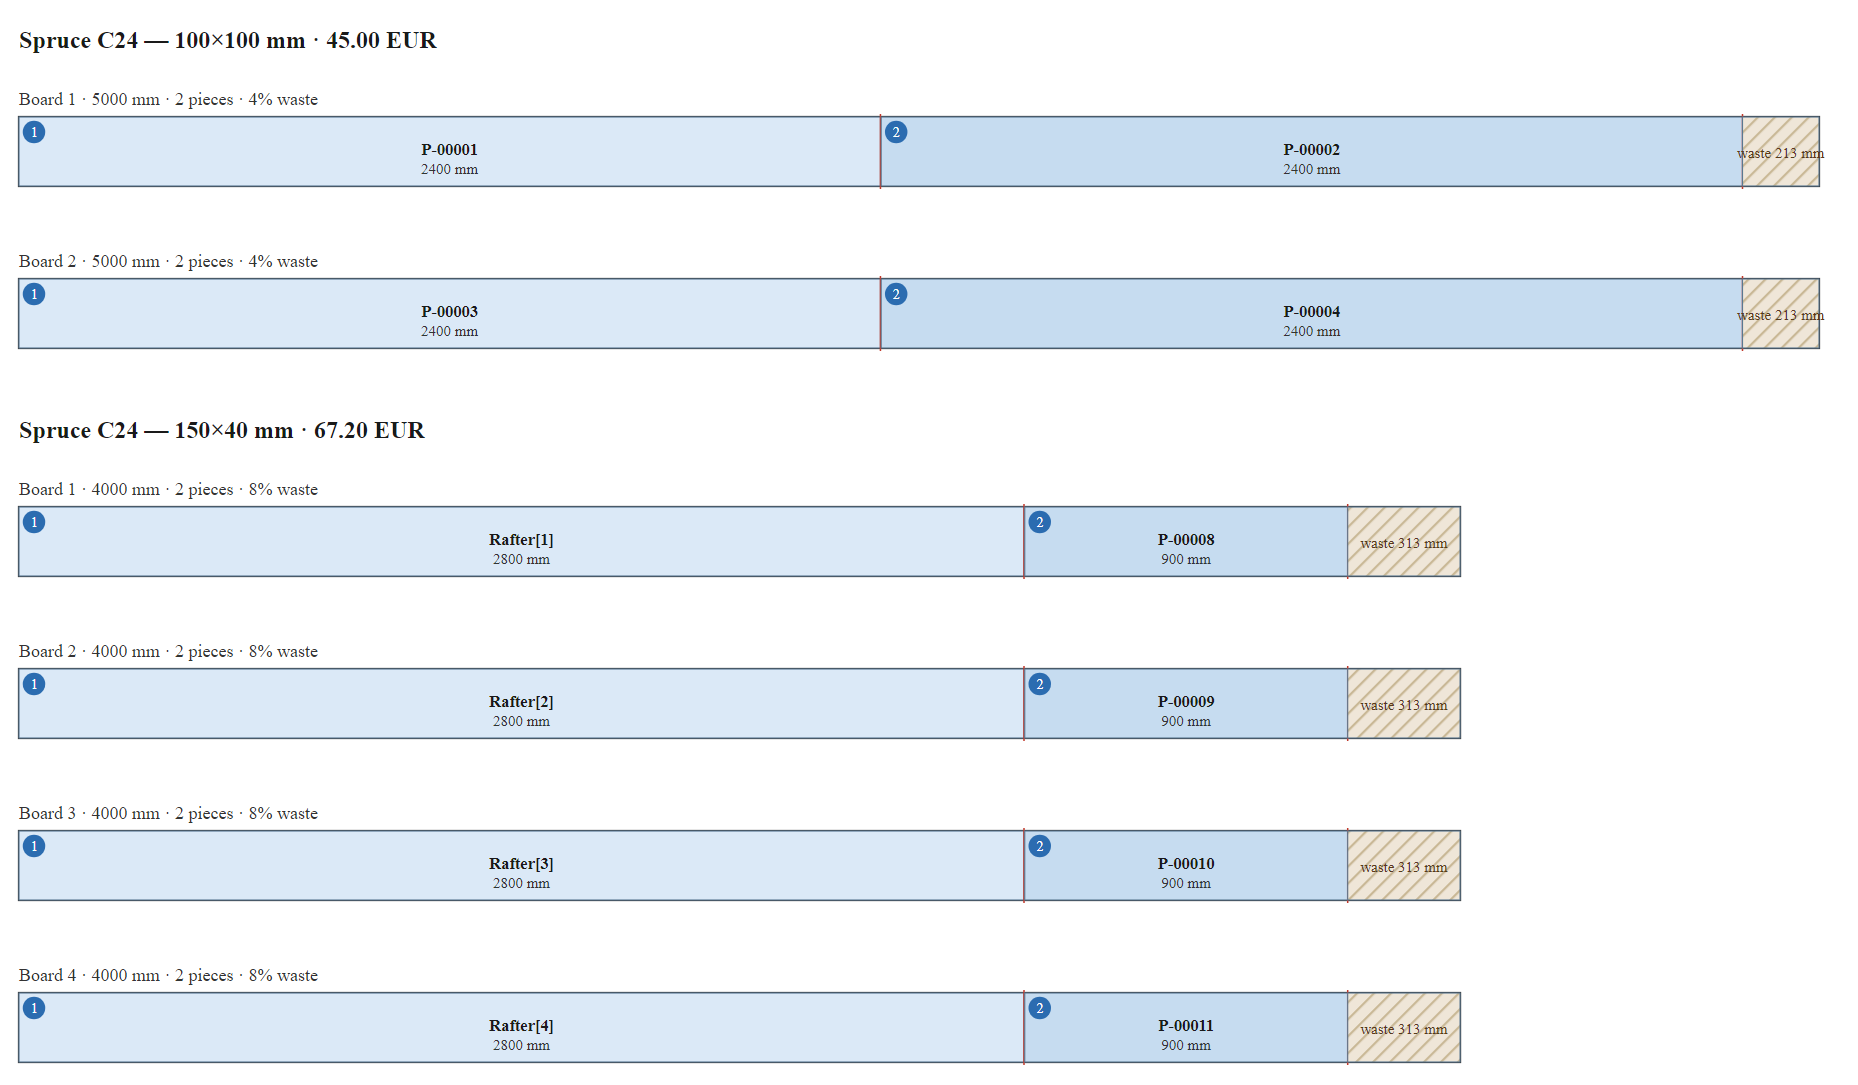
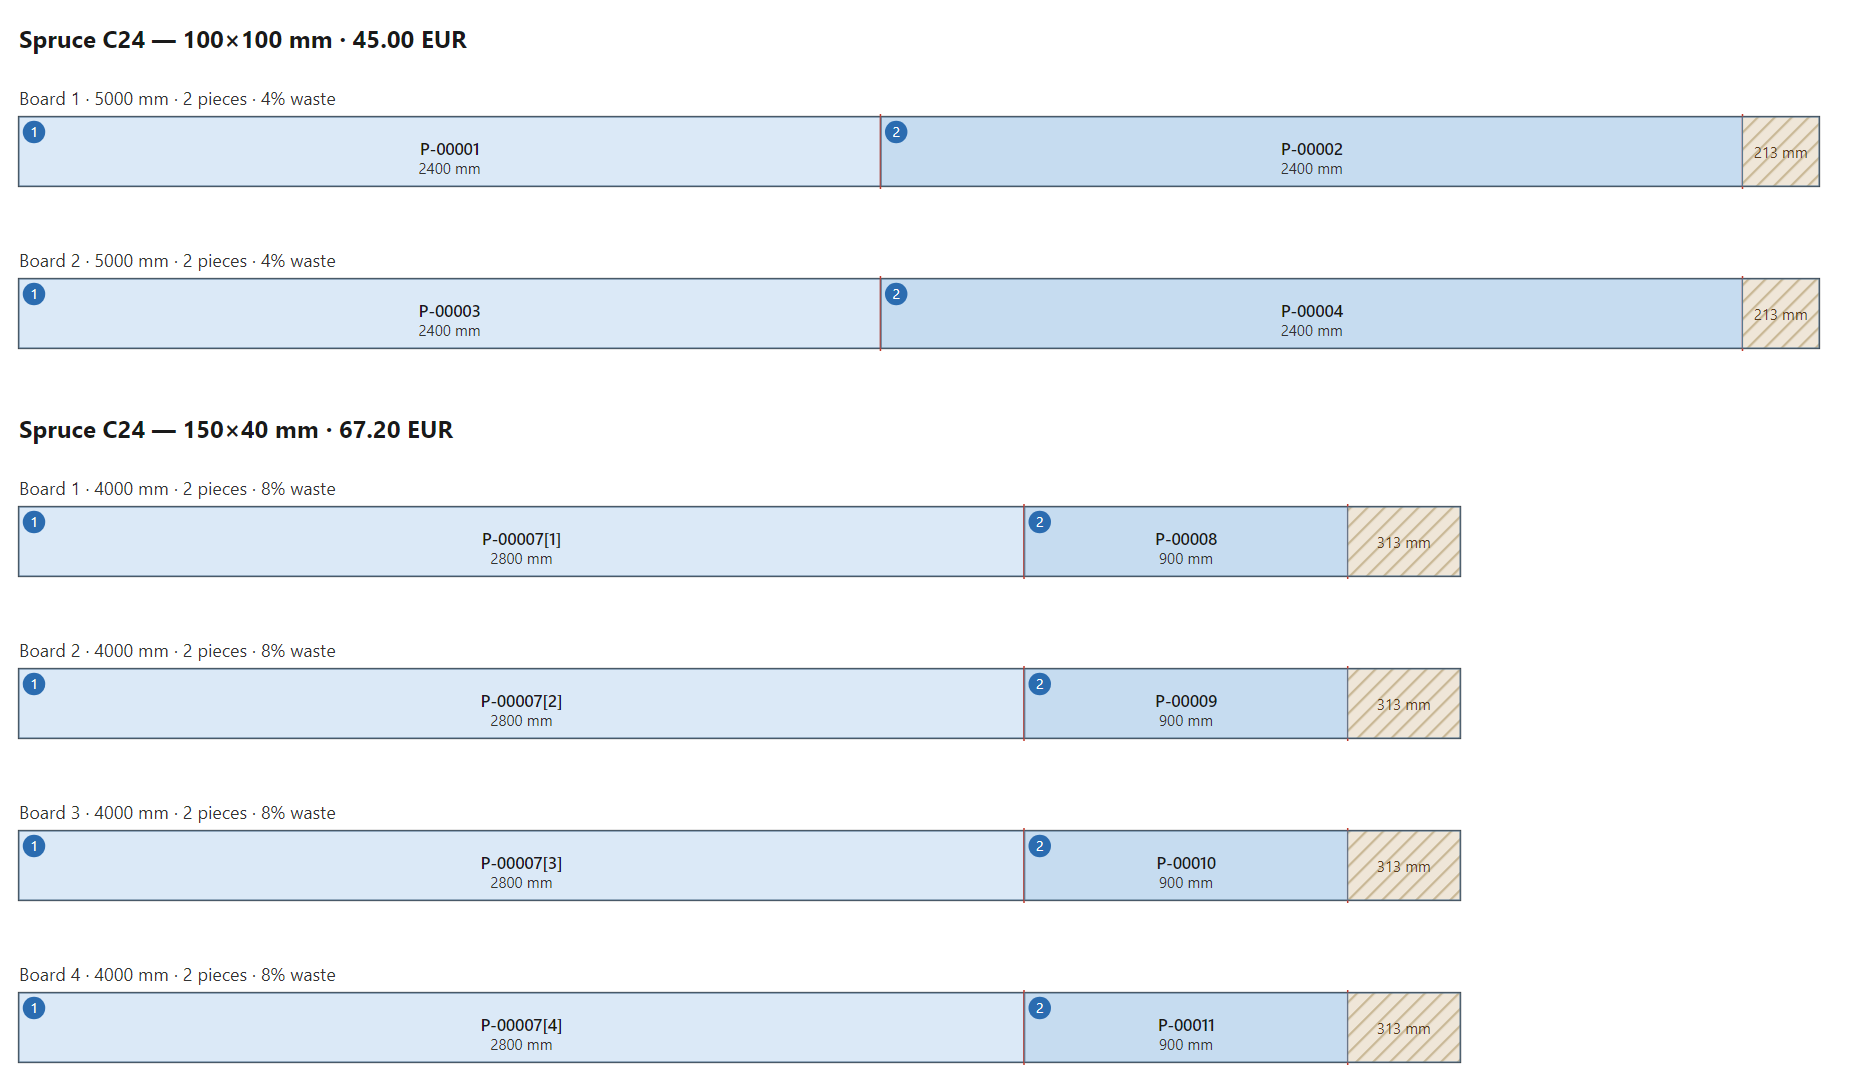
v1.0.4: changelog (report rows show the profile first; cut sheets: sans-serif, "1 piece", Array instances by Part ID, labels that fit) and refreshed guide screenshots

diff --git a/README.md b/README.md
@@ -100,7 +100,7 @@ CutVisor reads instance counts and dimensions from:
 
 ## Compatibility
 
-- Blender **4.0 and newer**, including **5.x** (v1.0.3 tested on 4.1 – 5.3)
+- Blender **4.0 and newer**, including **5.x** (v1.0.4 tested on 4.1 – 5.3)
 - Windows, macOS, Linux
 - Metric and Imperial units
 
@@ -130,6 +130,13 @@ cutvisor/
 ---
 
 ## Changelog
+
+### v1.0.4
+- Fixed: in the Shopping List report, each group row now starts with the profile (100×100 mm …), so groups can be told apart even in a narrow sidebar; boards, waste % and cost share one label.
+- Fixed: cut sheets (SVG) are drawn in a sans-serif font instead of the browser's serif default.
+- Fixed: cut sheets said "1 pieces"; a board with one piece now says "1 piece".
+- Fixed: pieces from an Array modifier were labelled with the object name (Rafter[1]) on the cut sheets (SVG and DXF) and in the report's piece list; they now show their Part ID with the instance number (P-00007[1]), as Identify does.
+- Fixed: on the cut sheets, the "waste … mm" label could run out of a short leftover; labels are now drawn only where they fit (a short leftover shows just its length).
 
 ### v1.0.3
 - Fixed: in the Shopping List report, the expand arrows of the material groups and of the boards took half of the row, so the board fill bar and the waste % were cut off. The arrows are now small icons and every row shows its full information again.
